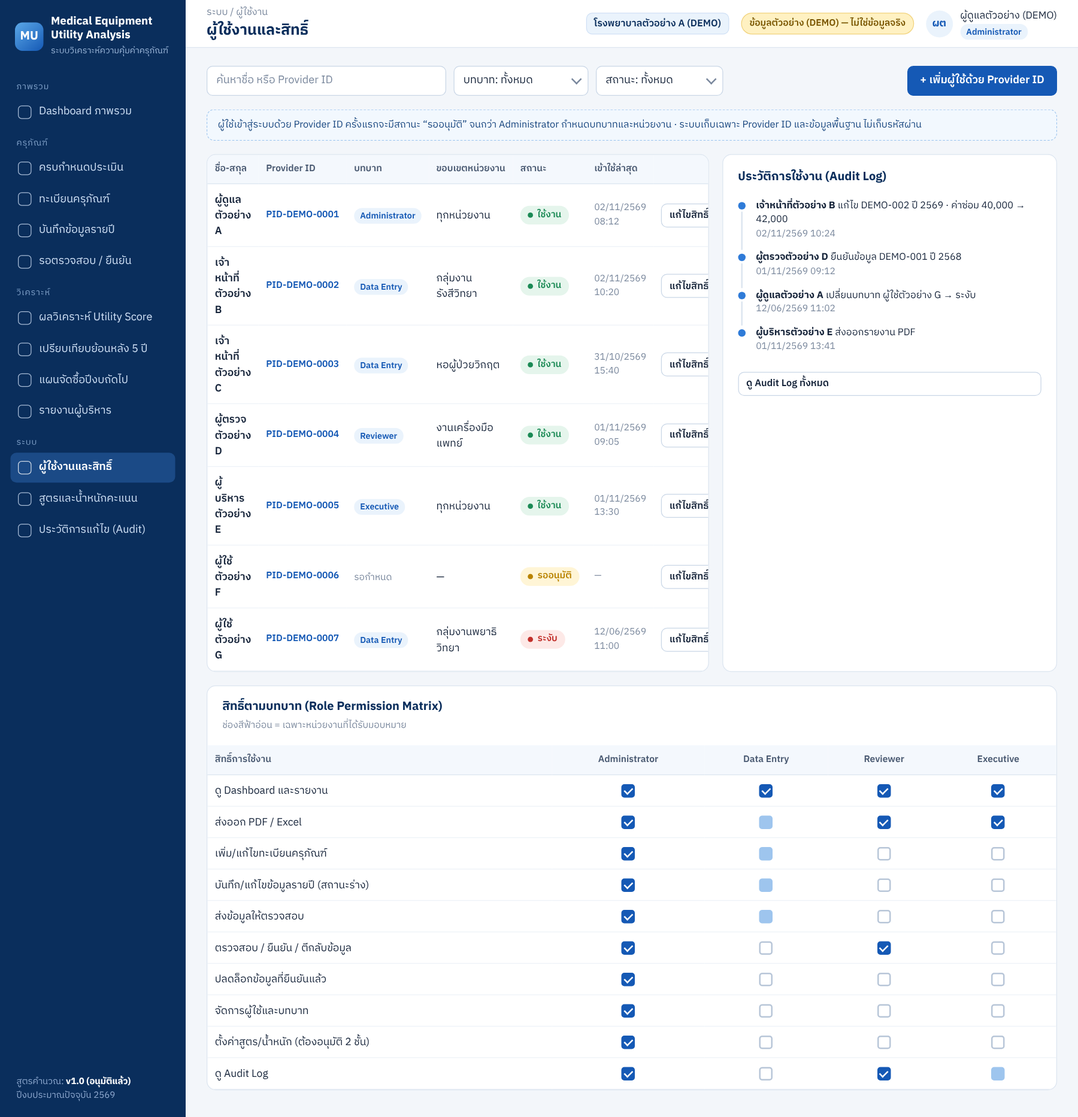
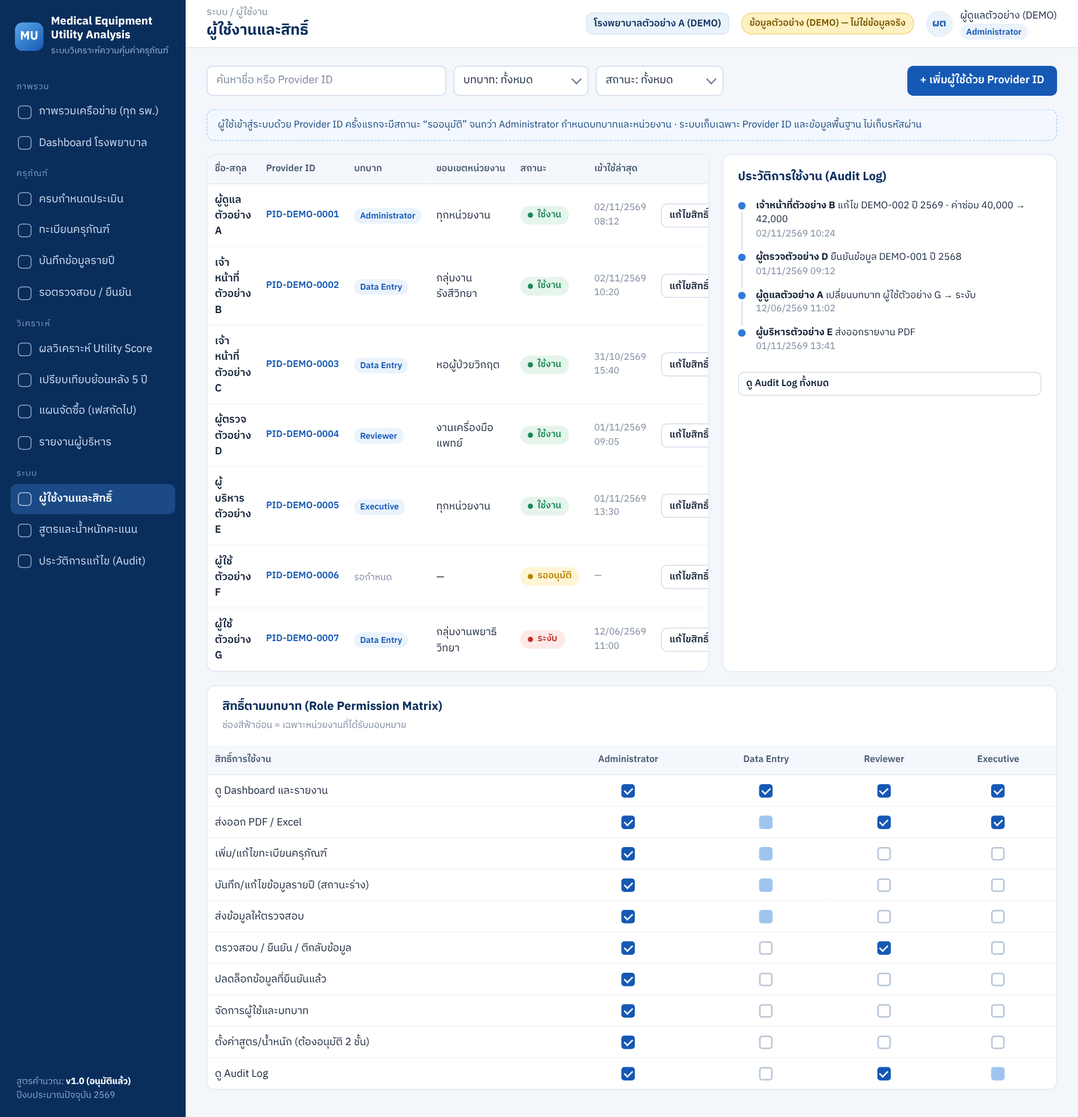
Add network dashboard design; move procurement plan to phase 2
- N-01..N-06 adopted as proposed
- New mockup: network dashboard comparing what data each hospital has
  (equipment types, field completeness, history coverage, cycle progress)
- Procurement plan (M12) deferred to phase 2; sprint plan updated

Claude-Session: https://claude.ai/code/session_012tXZqSBYX4rPjLh51zmygu

Changed region(s): [[0.0, 0.2797, 0.1867, 0.4973], [0.0, 0.0932, 0.1244, 0.2487]]

diff --git a/docs/Phase1-Analysis-Design.md b/docs/Phase1-Analysis-Design.md
@@ -1,8 +1,8 @@
 # ระยะที่ 1: วิเคราะห์เอกสารและออกแบบระบบ
 ## Medical Equipment Utility Analysis Web Application
 
-> **สถานะ:** ประเด็น Q-01 ถึง Q-15 **อนุมัติแล้ว** (2 พ.ย. 2569) ตามข้อเสนอ ยกเว้น Q-15 ที่ปรับตามวิธีนำเข้าข้อมูลที่กำหนด (ดูข้อ 1.10) ภาพ Mockup ยังรอการอนุมัติ ยังไม่ได้เขียนโปรแกรม สร้างฐานข้อมูล Deploy หรือเชื่อมต่อระบบจริง
-> **วันที่จัดทำ:** 2 พ.ย. 2569 · **ปรับปรุงครั้งที่ 2:** 2 พ.ย. 2569 (เพิ่มรูปแบบหลายโรงพยาบาล, รอบการประเมินประจำปี, แผนจัดซื้อปีงบถัดไป)
+> **สถานะ:** ประเด็น Q-01 ถึง Q-15 **อนุมัติแล้ว** (2 พ.ย. 2569) ตามข้อเสนอ ยกเว้น Q-15 ที่ปรับตามวิธีนำเข้าข้อมูลที่กำหนด (ดูข้อ 1.10) N-01 ถึง N-06 **อนุมัติแล้ว** ตามข้อเสนอ แผนจัดซื้อย้ายไป **เฟสที่ 2** ภาพ Mockup ยังรอการอนุมัติ ยังไม่ได้เขียนโปรแกรม สร้างฐานข้อมูล Deploy หรือเชื่อมต่อระบบจริง
+> **วันที่จัดทำ:** 2 พ.ย. 2569 · **ปรับปรุงครั้งที่ 3:** 2 พ.ย. 2569 (หลายโรงพยาบาล, รอบการประเมินประจำปี, Dashboard ภาพรวมเครือข่าย, แผนจัดซื้อเป็นเฟสที่ 2)
 > **ข้อมูลในภาพ Mockup ทั้งหมดเป็นข้อมูลตัวอย่าง (DEMO)** รหัสขึ้นต้นด้วย `DEMO-` ทั้งหมด ไม่ใช่ข้อมูลจริงของหน่วยงาน
 
 ---
@@ -224,7 +224,7 @@ Form Questions (รายปี)  ··· ไม่มีการเชื่อ
 | รหัส | ข้อกำหนดที่ใช้ในชุดสูตร v1.0 |
 |---|---|
 | D-01 (Q-01) | **Utilization Rate = ชม.ใช้งานจริง ÷ ชม.พร้อมใช้งานสูงสุด × 100** เป็นค่าหลักที่เข้าสูตร ส่วนแบบวัน (วันใช้จริง ÷ วันพร้อมใช้ × 100) แสดงประกอบ |
-| D-02 (Q-02) | คำนวณ **2 แบบ**: (1) **Score สะสม** ตามสูตร Excel โดยใช้ข้อมูลรายปีที่ยืนยันแล้วในช่วงวิเคราะห์ (สูงสุด 5 ปีงบ) รวมดังนี้ เคส/ค่าบำรุงรักษา/รายได้ใช้ผลรวม, Utilization และ Downtime ใช้ค่าเฉลี่ยถ่วงน้ำหนักด้วยชั่วโมง (Σชม.ใช้จริง ÷ Σชม.พร้อมใช้, Σชม.หยุด ÷ Σชม.พร้อมใช้), คะแนน 1–5 ใช้ค่าของปีล่าสุด (รอยืนยันที่ N-06) (2) **Score รายปี** ใช้ข้อมูลปีเดียว เพื่อดูแนวโน้ม |
+| D-02 (Q-02) | คำนวณ **2 แบบ**: (1) **Score สะสม** ตามสูตร Excel โดยใช้ข้อมูลรายปีที่ยืนยันแล้วในช่วงวิเคราะห์ (สูงสุด 5 ปีงบ) รวมดังนี้ เคส/ค่าบำรุงรักษา/รายได้ใช้ผลรวม, Utilization และ Downtime ใช้ค่าเฉลี่ยถ่วงน้ำหนักด้วยชั่วโมง (Σชม.ใช้จริง ÷ Σชม.พร้อมใช้, Σชม.หยุด ÷ Σชม.พร้อมใช้), คะแนน 1–5 ใช้ค่าของปีล่าสุด (N-06) (2) **Score รายปี** ใช้ข้อมูลปีเดียว เพื่อดูแนวโน้ม |
 | D-03 (Q-03) | Maintenance Cost = ซ่อม + อะไหล่ + PM + สอบเทียบ + อื่น ๆ |
 | D-04 (Q-04) | ต้นทุนต่อเคสใช้สูตร Excel เป็นค่าหลัก ส่วน Cost per Use รายปี = (ราคาซื้อ ÷ อายุตามเกณฑ์ + ค่าบำรุงรักษาปีนั้น) ÷ ครั้งใช้งานปีนั้น แสดงเมื่อกรอกอายุตามเกณฑ์แล้ว |
 | D-05 (Q-05) | Financial Score = 50 **เฉพาะ** เมื่อเลือก "ไม่มีรายได้ตรง" กรณีข้อมูลผิดหรือไม่ครบ ระบบไม่คำนวณและแจ้งเตือน |
@@ -241,16 +241,18 @@ Form Questions (รายปี)  ··· ไม่มีการเชื่อ
 
 **สิ่งที่ไม่เปลี่ยน:** น้ำหนัก 25/20/20/15/10/10, การแปลงคะแนน (×20, 100 − Downtime, 100 − Payback × 15), Payback = ราคาซื้อ ÷ รายได้เฉลี่ยต่อปี, เกณฑ์ 80/60/40 และ RANK
 
-### ประเด็นใหม่ที่ต้องยืนยัน (จากรูปแบบหลายโรงพยาบาล)
+### ประเด็นจากรูปแบบหลายโรงพยาบาล (อนุมัติตามข้อเสนอ 2 พ.ย. 2569)
 
-| รหัส | คำถาม | ข้อเสนอเบื้องต้น |
+| รหัส | คำถาม | ข้อกำหนดที่ใช้ |
 |---|---|---|
 | N-01 | ต้องมีผู้ใช้ส่วนกลาง (เช่น ระดับกรม) ที่ดูข้อมูลและเปรียบเทียบหลายโรงพยาบาลหรือไม่ | มีบทบาท "ผู้บริหารส่วนกลาง" แบบอ่านอย่างเดียว |
 | N-02 | "ครบกำหนด" มีเงื่อนไขอะไรบ้าง | (1) ทุกเครื่องที่ใช้งาน/พร้อมใช้/ซ่อม ครบกำหนดประเมินทุกปีงบ (2) ระบุเหตุเพิ่มเมื่อครบอายุใช้งานตามเกณฑ์ หรือครบกำหนด PM/สอบเทียบ (3) เครื่องรับเข้าใหม่เข้ารอบถัดไป |
 | N-03 | กำหนดเปิด–ปิดรอบการประเมิน | เปิด 1 ต.ค. (หลังสิ้นปีงบ) ปิด 31 ต.ค. ทันเวลาทำคำของบปีงบถัดไป ทั้งนี้ปรับได้ตามปฏิทินงบประมาณของหน่วยงาน |
 | N-04 | การตรวจสภาพเครื่องต้องมีรายการตรวจ (Checklist) มาตรฐานหรือไม่ | เริ่มจากช่อง สภาพเครื่อง (ดี/พอใช้/ชำรุด), วันที่ตรวจ, ผู้ตรวจ และหมายเหตุ ไว้เพิ่ม Checklist ตามประเภทเครื่องภายหลัง |
-| N-05 | แผนจัดซื้อต้องผ่านการอนุมัติกี่ระดับ | Reviewer ของโรงพยาบาลจัดทำ → ผู้บริหารโรงพยาบาลอนุมัติ → ส่งออกเป็นเอกสารประกอบคำของบ |
+| N-05 | แผนจัดซื้อต้องผ่านการอนุมัติกี่ระดับ | Reviewer ของโรงพยาบาลจัดทำ → ผู้บริหารโรงพยาบาลอนุมัติ → ส่งออกเป็นเอกสารประกอบคำของบ (**พัฒนาในเฟสที่ 2**) |
 | N-06 | Score สะสมใช้คะแนน Clinical/Satisfaction/Strategic ของปีล่าสุด หรือค่าเฉลี่ยทุกปีในช่วงวิเคราะห์ | ใช้ปีล่าสุด เพราะสะท้อนสภาพปัจจุบันที่ใช้ตัดสินใจจัดซื้อ |
+
+**ขอบเขตเฟสที่ 1 (ปรับ):** ทะเบียน, รอบการประเมินและรายการครบกำหนด, แบบฟอร์มรายปี, การตรวจยืนยัน, คำนวณ Score, **Dashboard ของโรงพยาบาล + Dashboard ภาพรวมเครือข่าย** ที่แสดงว่าแต่ละโรงพยาบาลมีข้อมูลอะไร มากน้อยแค่ไหน, รายงาน PDF/Excel และผู้ใช้/สิทธิ์ · **เฟสที่ 2:** แผนจัดซื้อ/ทดแทนปีงบถัดไป (M12)
 
 ---
 
@@ -306,7 +308,7 @@ flowchart LR
 | Data Entry (เจ้าหน้าที่ รพ.) | ตรวจสภาพเครื่อง เพิ่ม/แก้ไขทะเบียนครุภัณฑ์และข้อมูลรายปี (สถานะร่าง) ส่งตรวจ | รายการที่ได้รับมอบหมายในโรงพยาบาลของตน |
 | Reviewer (ผู้ตรวจสอบ รพ.) | ตรวจสอบ ยืนยัน หรือตีกลับพร้อมเหตุผล จัดทำร่างแผนจัดซื้อ | โรงพยาบาลของตน |
 | Executive (ผู้บริหาร รพ.) | ดู Dashboard รายงาน อนุมัติแผนจัดซื้อ ส่งออก PDF/Excel | โรงพยาบาลของตน |
-| ผู้บริหารส่วนกลาง (รอยืนยัน N-01) | ดูและเปรียบเทียบข้อมูลหลายโรงพยาบาล (อ่านอย่างเดียว) | ทุกโรงพยาบาล |
+| ผู้บริหารส่วนกลาง (N-01) | ดูและเปรียบเทียบข้อมูลหลายโรงพยาบาล (อ่านอย่างเดียว) | ทุกโรงพยาบาล |
 
 > ผู้ใช้ 1 คนมีได้หลายบทบาท แต่ระบบห้ามยืนยันข้อมูลที่ตนเองเป็นผู้บันทึก (Segregation of Duties)
 
@@ -327,7 +329,7 @@ stateDiagram-v2
 2. **ลงทะเบียนครุภัณฑ์** (ข้อมูลพื้นฐาน 1 ครั้ง) และแนบหลักฐาน
 3. **เปิดรอบประเมินปีงบ** → ระบบสร้างรายการครบกำหนด → เจ้าหน้าที่ตรวจสภาพเครื่องและ **บันทึกข้อมูลรายปี** ระบบตรวจสอบทันที → ส่งตรวจ
 4. **Reviewer ยืนยัน** → ระบบคำนวณ Score อัตโนมัติด้วยชุดสูตรที่อนุมัติ
-5. **Reviewer จัดทำแผนจัดซื้อ/ทดแทนปีงบถัดไป** → Executive อนุมัติ
+5. **ผู้บริหารส่วนกลาง** ดู Dashboard ภาพรวมเครือข่าย เพื่อดูว่าแต่ละโรงพยาบาลมีข้อมูลอะไร และติดตามโรงพยาบาลที่ข้อมูลยังไม่ครบ (แผนจัดซื้อเป็นเฟสที่ 2)
 6. **Executive ดู** Dashboard, เปรียบเทียบ, ส่งออกรายงาน (เลือกได้ว่าใช้เฉพาะข้อมูลที่ยืนยันแล้ว)
 7. การแก้ไขข้อมูลที่ยืนยันแล้วจะสร้าง **เวอร์ชันใหม่** โดยไม่เขียนทับเวอร์ชันเดิม
 
@@ -359,12 +361,12 @@ flowchart TD
 | M4 Annual Data Entry | แบบฟอร์มรายปี 4 หมวด, Validation, บันทึกร่าง, ประวัติซ่อมบำรุง |
 | M5 Review & Approval | คิวรอตรวจ ยืนยัน ตีกลับ ล็อก/ปลดล็อก |
 | M6 Calculation Engine | ชุดสูตรแบบมีเวอร์ชัน คำนวณสะสมและรายปี Golden Test กับ Excel |
-| M7 Dashboard & Analytics | KPI, กราฟ 7 ชนิด, ตัวกรอง 6 ชนิด, เปรียบเทียบ |
+| M7 Dashboard & Analytics | Dashboard โรงพยาบาล: KPI, กราฟ 7 ชนิด, ตัวกรอง 6 ชนิด · Dashboard ภาพรวมเครือข่าย: สรุปรายโรงพยาบาล ความคืบหน้ารอบประเมิน ประเภทครุภัณฑ์ ความครบถ้วนของข้อมูลแต่ละหมวด ข้อมูลย้อนหลังที่มี และสิ่งที่ควรติดตาม |
 | M8 Reports & Export | PDF สำหรับผู้บริหาร, Excel (รวมแผ่นแสดงสูตร) |
 | M9 Audit Trail | บันทึกทุกการสร้าง แก้ไข ยืนยัน ส่งออก และเข้าสู่ระบบ |
 | M10 Administration | โรงพยาบาล ผู้ใช้ บทบาท ชุดสูตร (อนุมัติ 2 ชั้น) การตั้งค่า |
 | M11 Assessment Cycle | เปิด–ปิดรอบปีงบ สร้างรายการครบกำหนดอัตโนมัติ มอบหมายเจ้าหน้าที่ ติดตามความคืบหน้าและกำหนดส่ง แจ้งเตือนใกล้ครบกำหนด |
-| M12 Procurement Plan | แผนจัดซื้อ/ทดแทนปีงบถัดไป จากผลที่ยืนยันแล้ว ข้อเสนอตามเกณฑ์ + ธงเตือน แนวทาง งบประมาณ ลำดับความสำคัญ การอนุมัติ และส่งออก |
+| M12 Procurement Plan (**เฟสที่ 2**) | แผนจัดซื้อ/ทดแทนปีงบถัดไป จากผลที่ยืนยันแล้ว ข้อเสนอตามเกณฑ์ + ธงเตือน แนวทาง งบประมาณ ลำดับความสำคัญ การอนุมัติ และส่งออก |
 
 ## 2.6 แนวทางเชื่อมต่อ Provider ID
 
@@ -395,13 +397,23 @@ flowchart TD
 
 > Score ในภาพทั้งหมดคำนวณด้วยสูตร Excel ต้นฉบับจริง (ข้อ 1.4) จากข้อมูล DEMO แถว DEMO-001 ถึง 003 ใช้ค่าตัวอย่างเดียวกับในไฟล์ A จึงได้ 75.5 / 50.4 / 52.3 ตรงกับ Excel
 
+## หน้า 0 — Dashboard ภาพรวมเครือข่าย (ทุกโรงพยาบาล)
+![Network dashboard](mockups/00-network-dashboard.png)
+สำหรับผู้บริหารส่วนกลาง (N-01) เพื่อดูว่า **แต่ละโรงพยาบาลมีข้อมูลแบบไหน**
+- ตัวกรอง: ปีงบ, จังหวัด/เขต, โรงพยาบาล, ประเภทครุภัณฑ์, สถานะข้อมูล (ค่าเริ่มต้นแสดงเฉพาะข้อมูลที่ยืนยันแล้ว)
+- KPI: จำนวนโรงพยาบาลที่ส่งข้อมูลแล้ว, ครุภัณฑ์, มูลค่ารวม, % ข้อมูลปีปัจจุบันที่ยืนยันแล้ว, Score เฉลี่ยเครือข่าย, จำนวนที่ควรพิจารณาทดแทน
+- **สรุปรายโรงพยาบาล:** จำนวนและมูลค่า, ความคืบหน้ารอบประเมิน (ยืนยัน/รอตรวจ/กำลังบันทึก/ยังไม่เริ่ม), Score เฉลี่ย, การกระจายระดับคะแนน 4 ระดับ + ข้อมูลไม่ครบ, วันที่อัปเดต และปุ่มเปิด Dashboard ของโรงพยาบาลนั้น
+- **3 ตาราง Heatmap:** (1) ประเภทครุภัณฑ์ที่แต่ละโรงพยาบาลมี (2) ความครบถ้วนของข้อมูลแต่ละหมวด เช่น ชั่วโมงใช้งาน รายได้ ค่าบำรุงรักษา Downtime คะแนน 1–5 และหลักฐาน (3) ข้อมูลย้อนหลังที่มีในแต่ละปีงบ
+- **สิ่งที่ควรติดตาม:** สร้างจากกฎความครบถ้วนของข้อมูล เช่น หมวดที่กรอกต่ำกว่า 50% หรือปีที่ยังไม่มีข้อมูล ไม่ได้มาจากสูตร Score
+- ผู้บริหารส่วนกลางดูได้อย่างเดียว ส่วนผู้ใช้ของโรงพยาบาลเห็นเฉพาะ Dashboard ของโรงพยาบาลตนเอง (หน้า 2)
+
 ## หน้า 1 — Login ด้วย Provider ID
 ![Login](mockups/01-login.png)
 - ปุ่มเดียว "เข้าสู่ระบบด้วย Provider ID" ระบบ redirect ไปหน้าของผู้ให้บริการ **ไม่มีช่องรหัสผ่าน**
 - แสดงขั้นตอน 3 ขั้น และป้ายเตือนว่าเป็น Mockup ที่ยังไม่เชื่อมต่อจริง
 - **Workflow:** กดปุ่ม → ยืนยันตัวตนที่ Provider ID → กลับมาพร้อมบทบาท หรือสถานะ "รออนุมัติ"
 
-## หน้า 2 — Dashboard ภาพรวม
+## หน้า 2 — Dashboard ของโรงพยาบาล
 ![Dashboard](mockups/02-dashboard.png)
 - ตัวกรอง 6 ชนิด: ปีงบประมาณ, หน่วยงาน, ประเภท, ชื่อ, ช่วงราคา, ระดับ Score
 - KPI 6 การ์ด: จำนวน, มูลค่ารวม, Score เฉลี่ย, คะแนนสูง (≥80), ควรพิจารณาทดแทน (<40), ค่าบำรุงรักษารวม (แถบสีบนการ์ดบอกสถานะ)
@@ -457,7 +469,7 @@ flowchart TD
 - ตารางรายการพร้อม **เหตุที่ครบกำหนด** (ประเมินประจำปี, ครบอายุใช้งาน, ครบกำหนดสอบเทียบ, รับเข้าใหม่), ผู้รับผิดชอบ, กำหนดส่ง และความครบถ้วนของข้อมูล
 - แผงขวา: ขั้นตอนการทำงานของเจ้าหน้าที่ และความเห็นของผู้ตรวจสอบเมื่อตีกลับ
 
-## หน้า 11 — แผนจัดซื้อ / ทดแทน ปีงบประมาณถัดไป
+## หน้า 11 — แผนจัดซื้อ / ทดแทน ปีงบประมาณถัดไป (ภาพตัวอย่างสำหรับเฟสที่ 2)
 ![Procurement plan](mockups/13-procurement-plan.png)
 - สรุปจำนวนและงบประมาณตามข้อเสนอแนะ 4 ระดับ
 - **ข้อเสนอแนะตามเกณฑ์** และ **ธงเตือน (D-12)** มาจากสูตรและแก้ไขไม่ได้ ส่วน **แนวทางในแผน งบประมาณ และลำดับความสำคัญ** โรงพยาบาลกรอกพร้อมเหตุผล
@@ -547,14 +559,15 @@ erDiagram
 
 | Sprint | งาน |
 |---|---|
-| 0 | ✓ อนุมัติ Q-01 ถึง Q-15 (ชุดสูตร v1.0) · เหลือยืนยัน N-01 ถึง N-06 และ Mockup |
+| 0 | ✓ อนุมัติ Q-01 ถึง Q-15 (ชุดสูตร v1.0) และ N-01 ถึง N-06 · เหลืออนุมัติ Mockup |
 | 1 | โครงสร้างโปรเจกต์, DB, Auth (IdP จำลอง), RBAC, Audit |
 | 2 | โรงพยาบาล (Tenant) + ทะเบียนครุภัณฑ์ + เอกสารแนบ |
 | 3 | รอบประเมิน + รายการครบกำหนด + ฟอร์มรายปี + Validation + Review Workflow |
 | 4 | Calculation Engine + Golden Test + หน้าผลวิเคราะห์ |
-| 5 | Dashboard + หน้ารายละเอียด 5 ปี |
-| 6 | แผนจัดซื้อปีงบถัดไป + รายงาน PDF/Excel + การจัดการผู้ใช้ |
+| 5 | Dashboard โรงพยาบาล + **Dashboard ภาพรวมเครือข่าย** + หน้ารายละเอียด 5 ปี |
+| 6 | รายงาน PDF/Excel + การจัดการผู้ใช้ |
 | 7 | เชื่อม Provider ID จริง (เมื่อได้เอกสาร), Security test, UAT |
+| เฟส 2 | แผนจัดซื้อ/ทดแทนปีงบถัดไป (M12) |
 
 ## 4.4 แนวทางรักษาความปลอดภัย
 
@@ -585,7 +598,7 @@ erDiagram
 1. **Dev / Test / Production แยกกัน** Test ใช้ข้อมูล DEMO หรือข้อมูลที่ปกปิดแล้ว
 2. ได้รับอนุมัติชุดสูตร v1.0 และเอกสาร Provider ID จากผู้ดูแลระบบ
 3. ลงทะเบียนโรงพยาบาลนำร่องและผู้ใช้ เจ้าหน้าที่ลงทะเบียนครุภัณฑ์และกรอกข้อมูลปีงบปัจจุบัน (และปีย้อนหลังถ้าต้องการ) ให้ Reviewer ยืนยัน
-4. **Pilot** 1–2 โรงพยาบาล ตลอด 1 รอบการประเมิน (ต.ค.) และจัดทำแผนจัดซื้อจริง โดยใช้ Excel คู่ขนานเพื่อเทียบผล
+4. **Pilot** 1–2 โรงพยาบาล ตลอด 1 รอบการประเมิน (ต.ค.) โดยใช้ Excel คู่ขนานเพื่อเทียบผล
 5. อบรมผู้ใช้ตามบทบาท พร้อมคู่มือภาษาไทย
 6. ขยายใช้งานทุกโรงพยาบาล มีแผน Rollback และสำรองข้อมูลก่อนขึ้นระบบ
 7. ติดตาม Monitoring/Log และทบทวนชุดสูตรประจำปีโดยคณะกรรมการ
@@ -593,9 +606,9 @@ erDiagram
 ---
 
 ## สิ่งที่ต้องการจากท่านเพื่อไปขั้นตอนถัดไป
-1. ✓ Q-01 ถึง Q-15 อนุมัติแล้ว · เหลือยืนยันประเด็นใหม่ **N-01 ถึง N-06** (ข้อ 1.10)
+1. ✓ Q-01 ถึง Q-15 และ N-01 ถึง N-06 อนุมัติแล้ว
 2. ยืนยันว่าเซลล์ #REF! (E-01, E-02) ควรอ้างอิงอะไร และต้องการให้รายงานกลับไปยังเจ้าของไฟล์หรือไม่
-3. ความเห็นต่อ Mockup ทั้ง 11 หน้า (+ Mobile)
+3. ความเห็นต่อ Mockup (หน้า 0–10 สำหรับเฟสที่ 1, หน้า 11 สำหรับเฟสที่ 2) และอนุมัติให้เริ่มพัฒนา
 4. ข้อมูล Provider ID ตามรายการในข้อ 2.6
 5. ความถนัดของทีม IT (PHP/Laravel หรือ TypeScript/NestJS) และสภาพแวดล้อม Server
 
